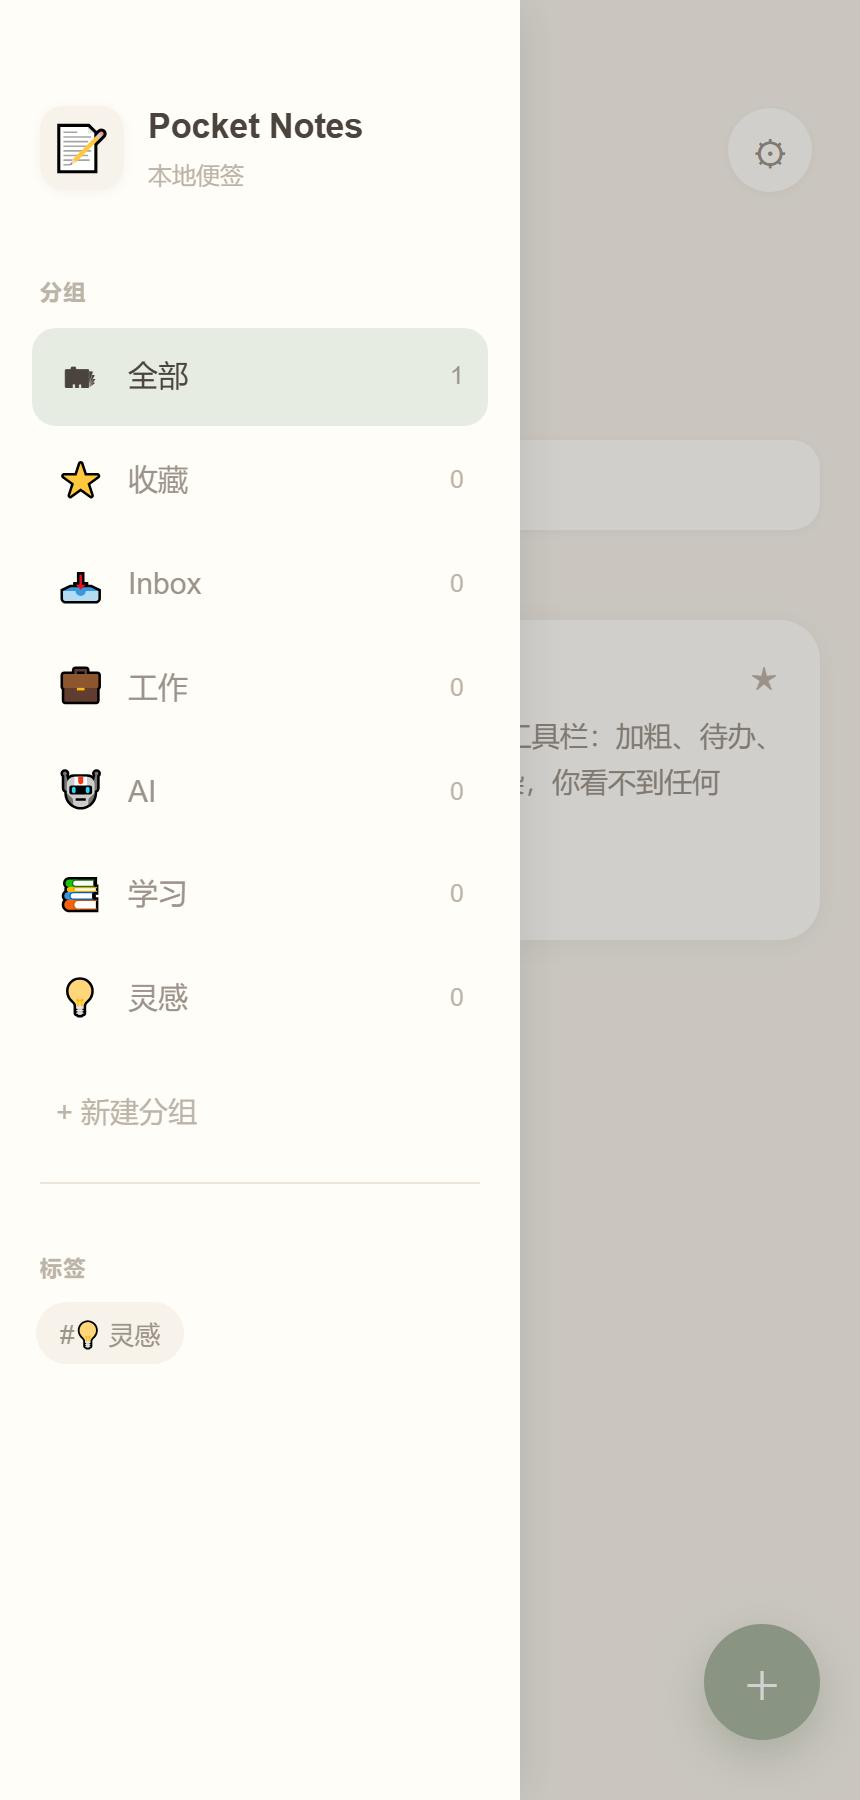
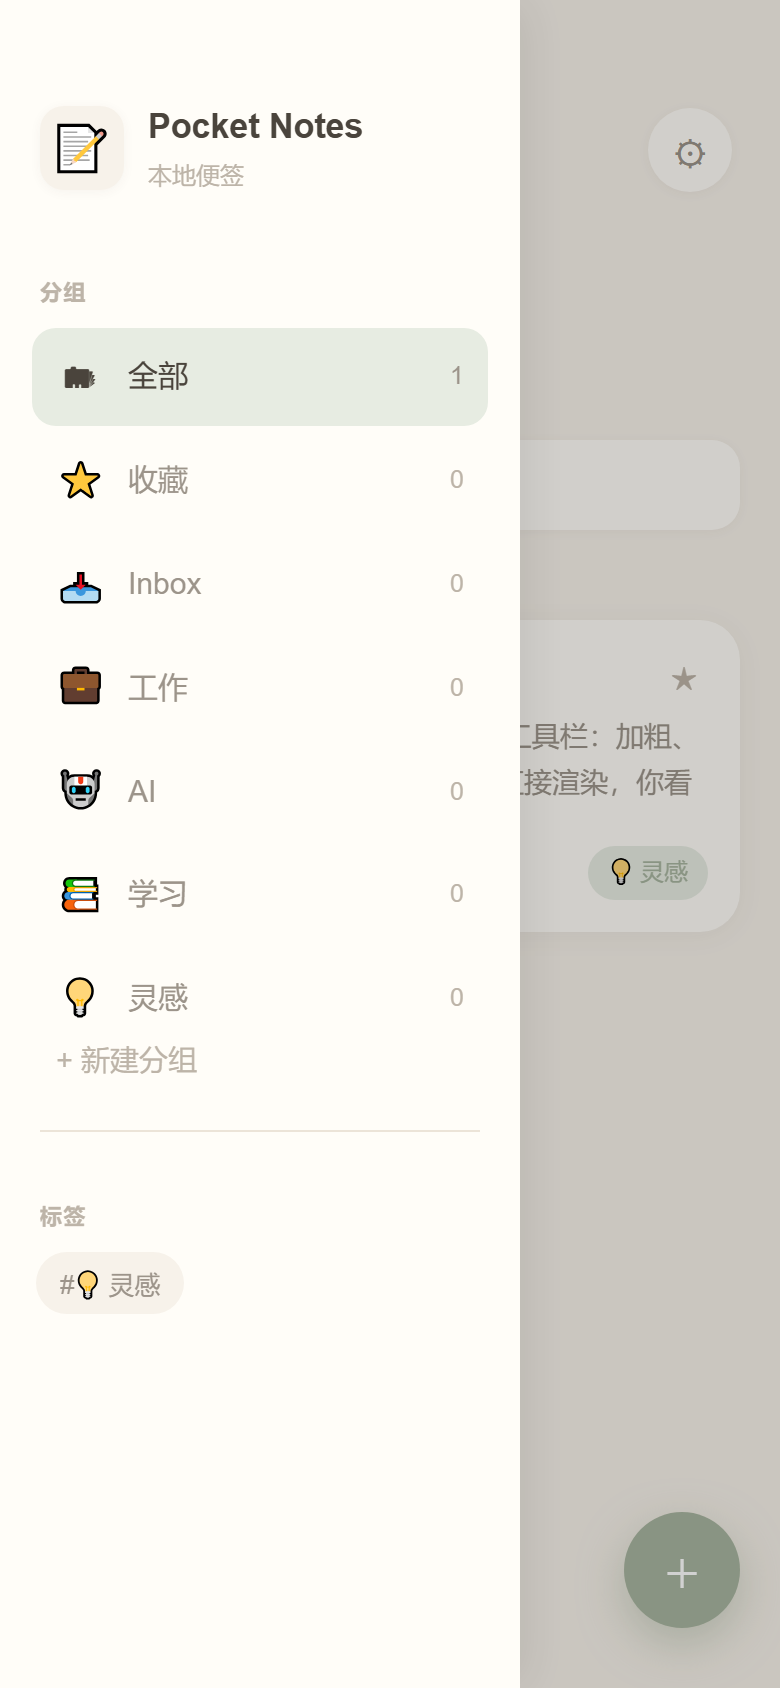
fix: 卡片标题显示与标签右下角布局 feat: 首页侧边栏分组 + 标签失焦自动保存 + 收藏功能

diff --git a/index.html b/index.html
@@ -123,17 +123,17 @@
     animation:cardIn var(--dur) var(--ease) both;}
   .card:active{transform:scale(.985);box-shadow:0 1px 6px rgba(74,68,60,.05);}
   @keyframes cardIn{from{opacity:0;transform:translateY(10px) scale(.98);}to{opacity:1;transform:none;}}
-  .card-tag{position:absolute;top:16px;left:16px;font-size:12px;color:var(--accent);
-    background:var(--accent-soft);padding:3px 10px;border-radius:999px;}
+  .card-tag{position:absolute;bottom:16px;right:16px;font-size:12px;color:var(--accent);
+    background:var(--accent-soft);padding:4px 10px;border-radius:999px;}
   .card-star{position:absolute;top:13px;right:13px;width:30px;height:30px;border:none;border-radius:50%;
     background:transparent;color:var(--text-3);font-size:16px;display:flex;align-items:center;justify-content:center;z-index:2;transition:all var(--dur) var(--ease);}
   .card-star:active{transform:scale(.85);}
   .card-star.on{color:#E8C25D;background:var(--surface-2);}
   .card-title{font-size:16.5px;font-weight:600;color:var(--text);
     white-space:nowrap;overflow:hidden;text-overflow:ellipsis;padding-right:40px;}
-  .card-body{margin-top:5px;font-size:14px;color:var(--text-2);
+  .card-body{margin-top:5px;margin-bottom:6px;font-size:14px;color:var(--text-2);
     display:-webkit-box;-webkit-line-clamp:3;-webkit-box-orient:vertical;overflow:hidden;}
-  .card-time{margin-top:10px;font-size:12px;color:var(--text-3);}
+  .card-time{margin-top:6px;font-size:12px;color:var(--text-3);padding-right:80px;}
   .empty{text-align:center;color:var(--text-3);padding:80px 20px;font-size:15px;line-height:1.8;}
 
   .fab{position:absolute;right:20px;bottom:30px;width:58px;height:58px;border:none;border-radius:50%;
